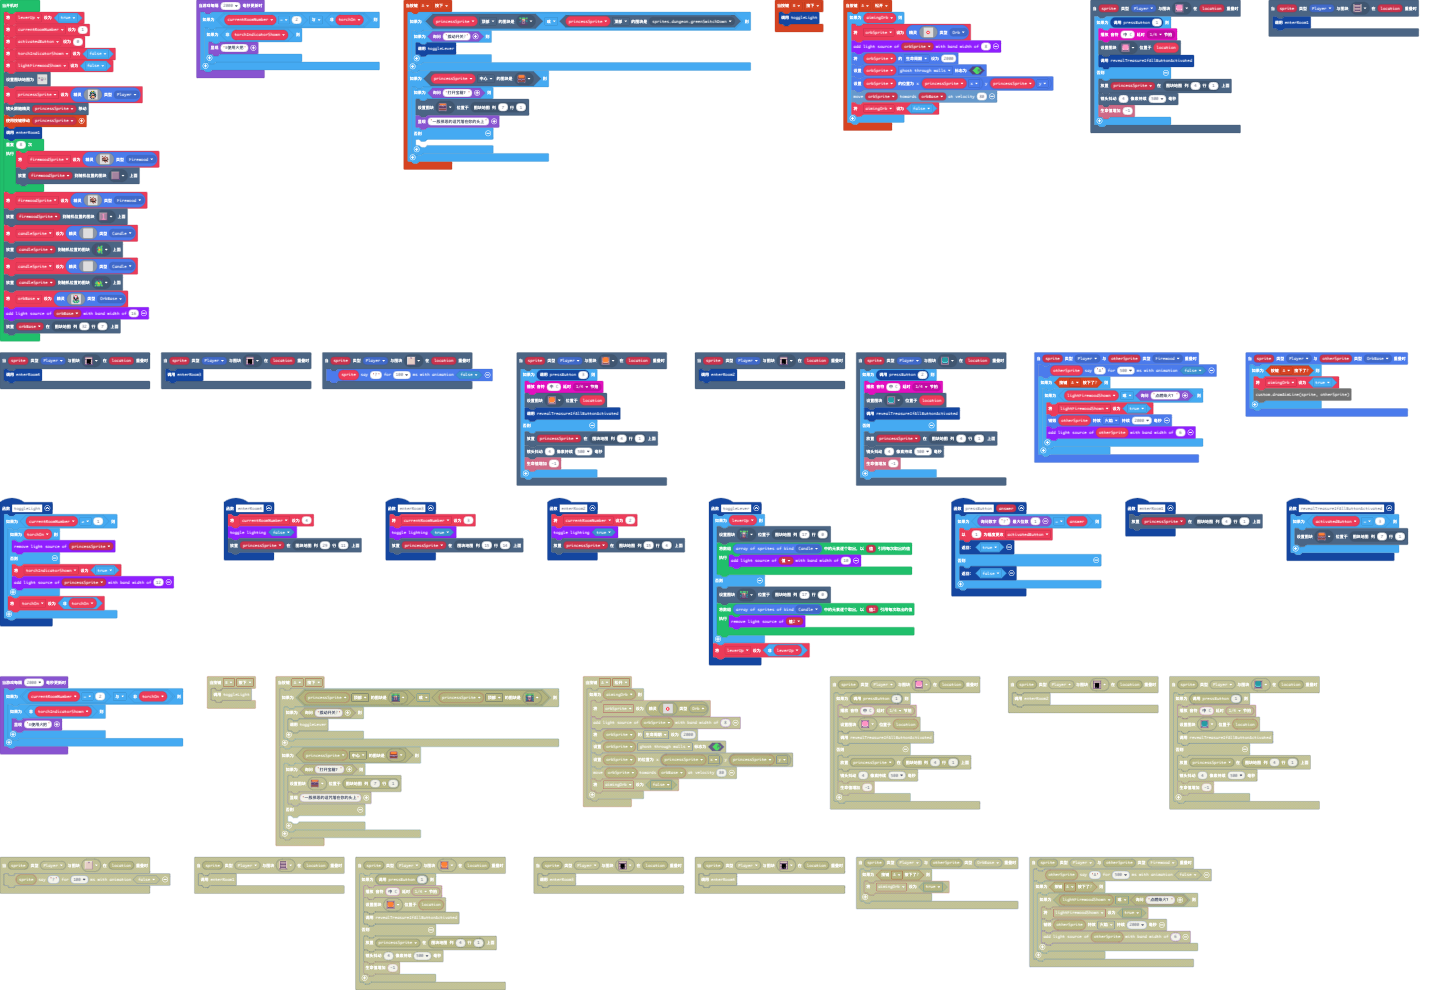
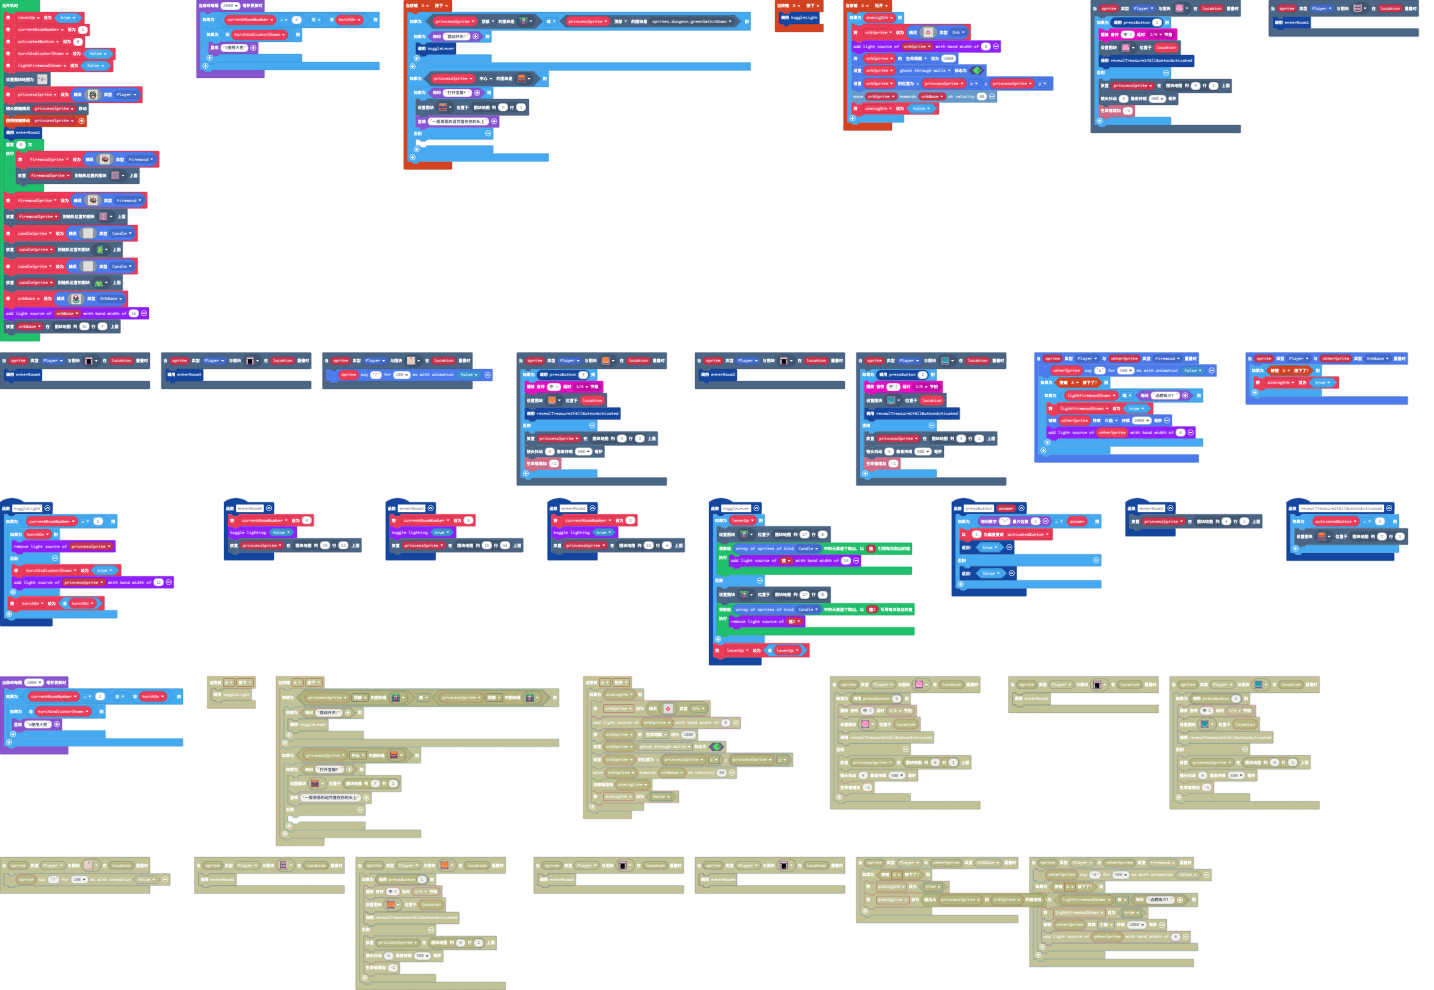
更新 pxt.json, main.blocks, main.ts, tilemap.g.jres, tilemap.g.ts, custom.ts

Changed region(s): [[0.583, 0.8788, 0.7364, 0.9394], [0.3989, 0.7879, 0.4909, 0.8485], [0.8591, 0.3939, 0.9819, 0.4242]]

diff --git a/tilemap.g.ts b/tilemap.g.ts
@@ -36,6 +36,25 @@ namespace myTiles {
 .............2.........2................
 .............22.22222222................
 `, [myTiles.transparency16,sprites.dungeon.darkGroundNorthWest0,sprites.dungeon.darkGroundNorthEast0,sprites.dungeon.darkGroundSouthWest0,sprites.dungeon.darkGroundSouth,sprites.dungeon.darkGroundSouthEast0,sprites.dungeon.darkGroundEast,sprites.dungeon.darkGroundWest,sprites.dungeon.darkGroundNorth,sprites.dungeon.darkGroundCenter,sprites.dungeon.buttonOrange,sprites.dungeon.buttonTeal,sprites.dungeon.buttonPink,sprites.dungeon.doorOpenNorth,sprites.dungeon.buttonOrangeDepressed,sprites.dungeon.buttonTealDepressed,sprites.dungeon.buttonPinkDepressed,sprites.dungeon.chestClosed,sprites.dungeon.chestOpen,sprites.dungeon.greenOuterNorthWest,sprites.dungeon.greenOuterNorth0,sprites.dungeon.greenOuterWest0,sprites.dungeon.greenOuterSouthEast,sprites.dungeon.greenOuterSouth1,sprites.dungeon.greenOuterEast0,sprites.dungeon.greenOuterNorthEast,sprites.dungeon.greenOuterSouthWest,sprites.dungeon.floorLight2,sprites.dungeon.stairNorth,sprites.dungeon.greenOuterEast2,sprites.dungeon.greenOuterSouth2,sprites.dungeon.greenSwitchUp,myTiles.tile1,myTiles.tile2,myTiles.tile4,myTiles.tile5,myTiles.tile6,sprites.dungeon.floorDark2,sprites.dungeon.purpleOuterNorthWest,sprites.dungeon.purpleOuterNorth0,sprites.dungeon.purpleOuterEast1,sprites.dungeon.purpleOuterWest0,sprites.dungeon.purpleOuterSouthEast,sprites.dungeon.purpleOuterNorthEast,sprites.dungeon.purpleOuterSouth1,sprites.dungeon.purpleOuterSouthWest,myTiles.tile3], TileScale.Sixteen);
+            case "级别2":
+            case "级别2":return tiles.createTilemap(hex`1000100000000000000000000000000000000000000000000000000000000000000000000000000000000000000000000000000000000000000000000000000000000000000000000000000000000000000000000000000000000000000000000000000000000000000000000000000000000000000000000000000000000000000000000000000000000000000000000000000000000000000000000000000000000000000000000000000000000000000000000000000000000000000000000000000000000000000000000000000000000000000000000000000000000000000000000000000000000000000000000000000000000000000000000000000000000000`, img`
+. . . . . . . . . . . . . . . . 
+. . . . . . . . . . . . . . . . 
+. . . . . . . . . . . . . . . . 
+. . . . . . . . . . . . . . . . 
+. . . . . . . . . . . . . . . . 
+. . . . . . . . . . . . . . . . 
+. . . . . . . . . . . . . . . . 
+. . . . . . . . . . . . . . . . 
+. . . . . . . . . . . . . . . . 
+. . . . . . . . . . . . . . . . 
+. . . . . . . . . . . . . . . . 
+. . . . . . . . . . . . . . . . 
+. . . . . . . . . . . . . . . . 
+. . . . . . . . . . . . . . . . 
+. . . . . . . . . . . . . . . . 
+. . . . . . . . . . . . . . . . 
+`, [myTiles.transparency16], TileScale.Sixteen);
         }
         return null;
     })

diff --git a/custom.ts b/custom.ts
@@ -1,14 +1,46 @@
 //% weight=100 color=#0fbc11 icon=""
 namespace custom {
 
-    export function drawAimLine(sprite :Sprite, aimSprite:Sprite) {
-        game.onShade(() => {
-            console.log("drawing line")
-            let canvas = image.create(160, 120)
-            let camera = game.currentScene().camera
-            canvas.drawLine(sprite.x - camera.offsetX, sprite.y - camera.offsetY,
-                aimSprite.x - camera.offsetX, aimSprite.y - camera.offsetY, 1)
-            screen.drawTransparentImage(canvas, 0, 0)
-        })
+    class AimingLine {
+
+        color:number
+        fromSprite:Sprite
+        towardsSprite:Sprite
+
+        public constructor(fromSprite:Sprite, towardsSprite:Sprite, color:number) {
+            this.fromSprite = fromSprite
+            this.towardsSprite = towardsSprite
+            this.color = color
+        }
+
     }
+
+    let aimingLines:AimingLine[] = []
+
+    //%blockid=customcreateaimingline block="画出从 %fromSprite=variables_get(fromSprite) 到 %towardsSprite=variables_get(towardsSprite) 的瞄准线"
+    //% blockSetVariable=aimingLine
+    export function createAimingLine(fromSprite:Sprite, towardsSprite:Sprite) :AimingLine{
+        let aimingLine = new AimingLine(fromSprite, towardsSprite, 0)
+        aimingLines.push(aimingLine)
+        return aimingLine
+    }
+
+    //%blockid=customdestoryaimingline block="消除瞄准线 %aimingLine=variables_get(aimingLine)"
+    export function destroy(aimingLine:AimingLine) {
+        aimingLines.removeElement(aimingLine)
+    }
+
+    
+    game.onShade(() => {
+        let canvas = image.create(160, 120)
+        let camera = game.currentScene().camera
+        for (let aimingLine of aimingLines) {
+            let fromSprite = aimingLine.fromSprite
+            let towardsSprite = aimingLine.towardsSprite
+            canvas.drawLine(fromSprite.x - camera.offsetX, fromSprite.y - camera.offsetY,
+                towardsSprite.x - camera.offsetX, towardsSprite.y - camera.offsetY, 1)
+            screen.drawTransparentImage(canvas, 0, 0)
+        }
+    })
+
 }

diff --git a/main.ts b/main.ts
@@ -69,7 +69,6 @@ sprites.onOverlap(SpriteKind.Player, SpriteKind.Firewood, function (sprite, othe
 sprites.onOverlap(SpriteKind.Player, SpriteKind.OrbBase, function (sprite, otherSprite) {
     if (controller.A.isPressed()) {
         aimingOrb = true
-        custom.drawAimLine(sprite, otherSprite)
     }
 })
 scene.onOverlapTile(SpriteKind.Player, assets.tile`myTile4`, function (sprite, location) {
